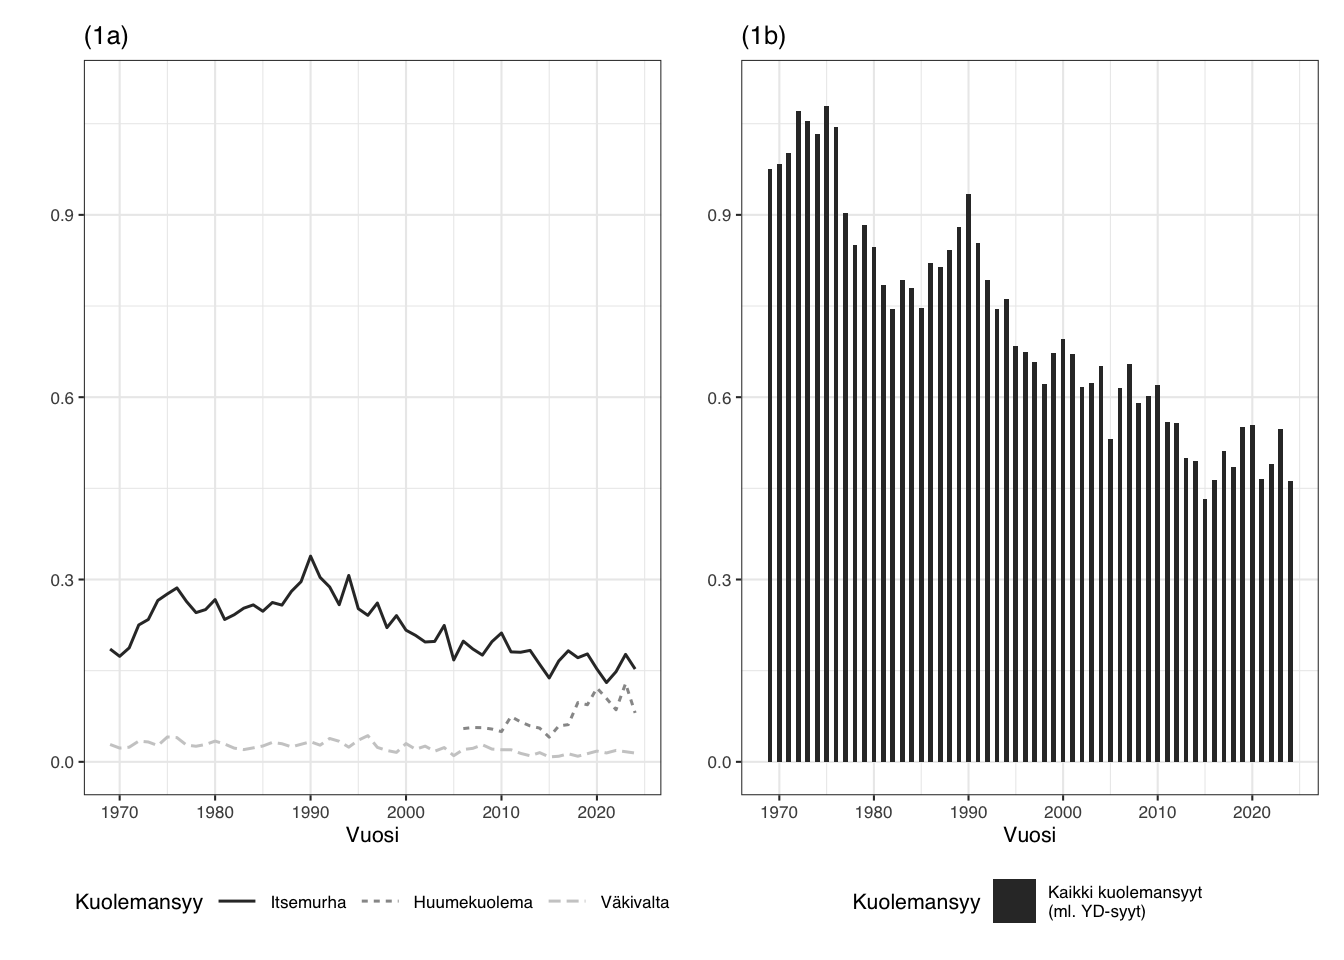
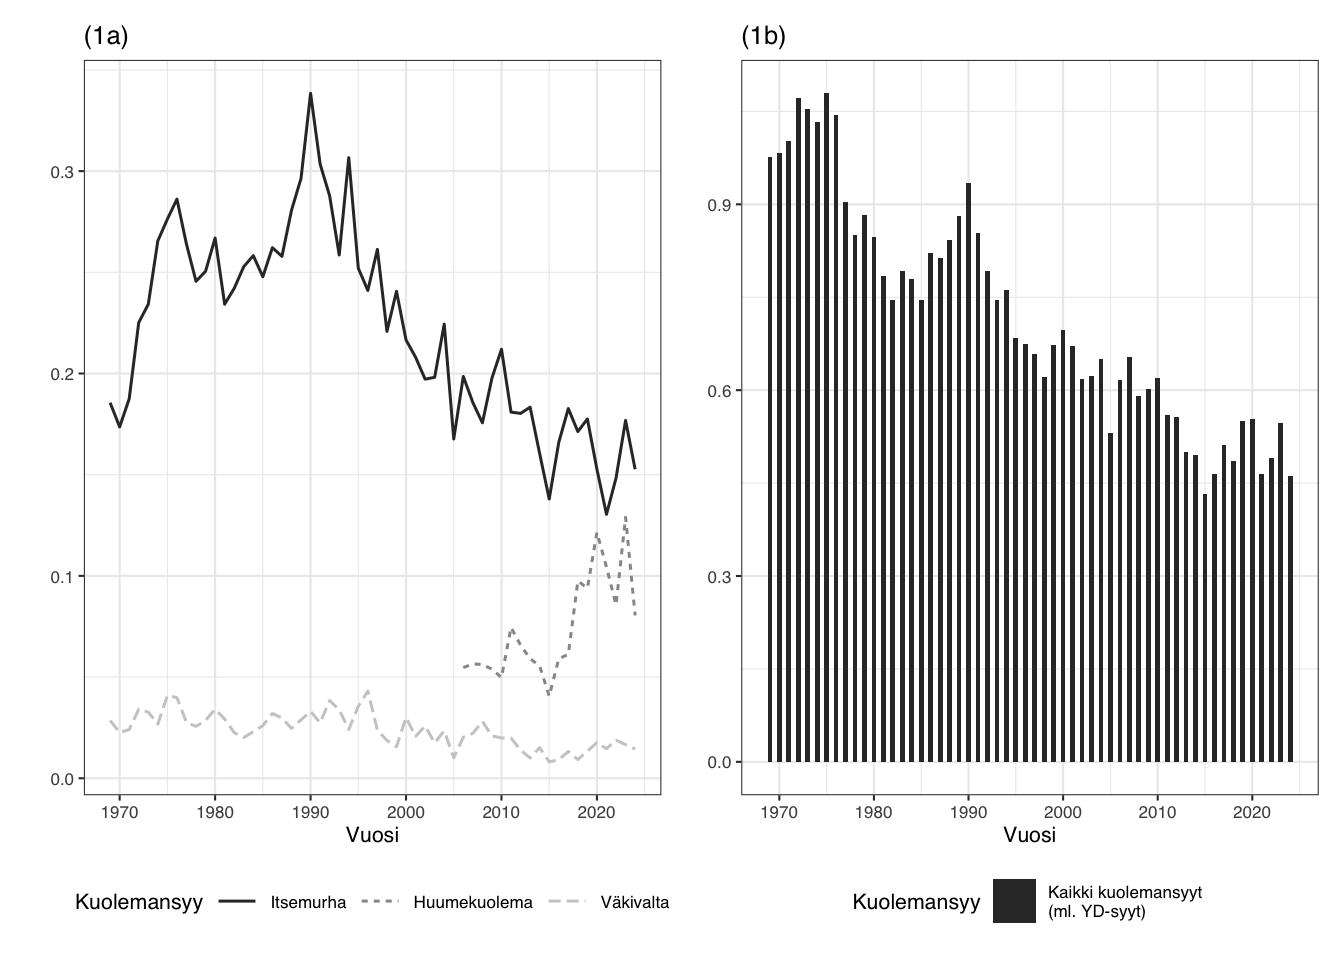
Use automatically defined y-axis limits

diff --git a/docs/datan-visualisointi.html b/docs/datan-visualisointi.html
@@ -3017,30 +3017,28 @@ ASDR = \frac{\text{25-29 vuotiaana kuolleet vuonna A}}{\text{25-29-vuotiaiden ke
 <span id="cb70-13"><a href="#cb70-13" aria-hidden="true" tabindex="-1"></a>       <span class="at">title =</span> <span class="st">"(1a)"</span>) <span class="sc">+</span></span>
 <span id="cb70-14"><a href="#cb70-14" aria-hidden="true" tabindex="-1"></a>  <span class="fu">scale_colour_grey</span>() <span class="sc">+</span></span>
 <span id="cb70-15"><a href="#cb70-15" aria-hidden="true" tabindex="-1"></a>  <span class="fu">theme_bw</span>(<span class="at">base_size =</span> <span class="dv">8</span>, <span class="at">base_family =</span> <span class="st">"sans"</span>) <span class="sc">+</span></span>
-<span id="cb70-16"><a href="#cb70-16" aria-hidden="true" tabindex="-1"></a>  <span class="fu">theme</span>(<span class="at">legend.position =</span> <span class="st">"bottom"</span>) <span class="sc">+</span></span>
-<span id="cb70-17"><a href="#cb70-17" aria-hidden="true" tabindex="-1"></a>  <span class="fu">ylim</span>(<span class="fu">c</span>(<span class="fl">0.0</span>, <span class="fl">1.1</span>))</span>
-<span id="cb70-18"><a href="#cb70-18" aria-hidden="true" tabindex="-1"></a></span>
-<span id="cb70-19"><a href="#cb70-19" aria-hidden="true" tabindex="-1"></a><span class="co"># kuvio_extra_1a</span></span>
-<span id="cb70-20"><a href="#cb70-20" aria-hidden="true" tabindex="-1"></a></span>
-<span id="cb70-21"><a href="#cb70-21" aria-hidden="true" tabindex="-1"></a>kuvio_extra_1b <span class="ot">&lt;-</span> <span class="fu">ggplot</span>(<span class="at">data =</span> kaikki_70_muut, <span class="fu">aes</span>(<span class="at">x =</span> <span class="fu">as.numeric</span>(vuosi), <span class="at">y =</span> asdr, <span class="at">group =</span> kuolemansyy)) <span class="sc">+</span></span>
-<span id="cb70-22"><a href="#cb70-22" aria-hidden="true" tabindex="-1"></a>  <span class="fu">geom_bar</span>(<span class="fu">aes</span>(<span class="at">fill=</span>kuolemansyy), <span class="at">stat =</span> <span class="st">"identity"</span>, <span class="at">width =</span> <span class="fl">0.5</span>) <span class="sc">+</span> </span>
-<span id="cb70-23"><a href="#cb70-23" aria-hidden="true" tabindex="-1"></a>  <span class="fu">labs</span>(<span class="at">x =</span> <span class="st">"Vuosi"</span>,</span>
-<span id="cb70-24"><a href="#cb70-24" aria-hidden="true" tabindex="-1"></a>       <span class="at">y =</span> <span class="st">""</span>,</span>
-<span id="cb70-25"><a href="#cb70-25" aria-hidden="true" tabindex="-1"></a>       <span class="at">fill =</span> <span class="st">"Kuolemansyy"</span>,</span>
-<span id="cb70-26"><a href="#cb70-26" aria-hidden="true" tabindex="-1"></a>       <span class="at">title =</span> <span class="st">"(1b)"</span>) <span class="sc">+</span></span>
-<span id="cb70-27"><a href="#cb70-27" aria-hidden="true" tabindex="-1"></a>  <span class="fu">scale_fill_grey</span>() <span class="sc">+</span></span>
-<span id="cb70-28"><a href="#cb70-28" aria-hidden="true" tabindex="-1"></a>  <span class="fu">theme_bw</span>(<span class="at">base_size =</span> <span class="dv">8</span>, <span class="at">base_family =</span> <span class="st">"sans"</span>) <span class="sc">+</span></span>
-<span id="cb70-29"><a href="#cb70-29" aria-hidden="true" tabindex="-1"></a>  <span class="fu">theme</span>(<span class="at">legend.position =</span> <span class="st">"bottom"</span>) <span class="sc">+</span></span>
-<span id="cb70-30"><a href="#cb70-30" aria-hidden="true" tabindex="-1"></a>  <span class="fu">ylim</span>(<span class="fu">c</span>(<span class="fl">0.0</span>, <span class="fl">1.1</span>))</span>
+<span id="cb70-16"><a href="#cb70-16" aria-hidden="true" tabindex="-1"></a>  <span class="fu">theme</span>(<span class="at">legend.position =</span> <span class="st">"bottom"</span>)</span>
+<span id="cb70-17"><a href="#cb70-17" aria-hidden="true" tabindex="-1"></a></span>
+<span id="cb70-18"><a href="#cb70-18" aria-hidden="true" tabindex="-1"></a><span class="co"># kuvio_extra_1a</span></span>
+<span id="cb70-19"><a href="#cb70-19" aria-hidden="true" tabindex="-1"></a></span>
+<span id="cb70-20"><a href="#cb70-20" aria-hidden="true" tabindex="-1"></a>kuvio_extra_1b <span class="ot">&lt;-</span> <span class="fu">ggplot</span>(<span class="at">data =</span> kaikki_70_muut, <span class="fu">aes</span>(<span class="at">x =</span> <span class="fu">as.numeric</span>(vuosi), <span class="at">y =</span> asdr, <span class="at">group =</span> kuolemansyy)) <span class="sc">+</span></span>
+<span id="cb70-21"><a href="#cb70-21" aria-hidden="true" tabindex="-1"></a>  <span class="fu">geom_bar</span>(<span class="fu">aes</span>(<span class="at">fill=</span>kuolemansyy), <span class="at">stat =</span> <span class="st">"identity"</span>, <span class="at">width =</span> <span class="fl">0.5</span>) <span class="sc">+</span> </span>
+<span id="cb70-22"><a href="#cb70-22" aria-hidden="true" tabindex="-1"></a>  <span class="fu">labs</span>(<span class="at">x =</span> <span class="st">"Vuosi"</span>,</span>
+<span id="cb70-23"><a href="#cb70-23" aria-hidden="true" tabindex="-1"></a>       <span class="at">y =</span> <span class="st">""</span>,</span>
+<span id="cb70-24"><a href="#cb70-24" aria-hidden="true" tabindex="-1"></a>       <span class="at">fill =</span> <span class="st">"Kuolemansyy"</span>,</span>
+<span id="cb70-25"><a href="#cb70-25" aria-hidden="true" tabindex="-1"></a>       <span class="at">title =</span> <span class="st">"(1b)"</span>) <span class="sc">+</span></span>
+<span id="cb70-26"><a href="#cb70-26" aria-hidden="true" tabindex="-1"></a>  <span class="fu">scale_fill_grey</span>() <span class="sc">+</span></span>
+<span id="cb70-27"><a href="#cb70-27" aria-hidden="true" tabindex="-1"></a>  <span class="fu">theme_bw</span>(<span class="at">base_size =</span> <span class="dv">8</span>, <span class="at">base_family =</span> <span class="st">"sans"</span>) <span class="sc">+</span></span>
+<span id="cb70-28"><a href="#cb70-28" aria-hidden="true" tabindex="-1"></a>  <span class="fu">theme</span>(<span class="at">legend.position =</span> <span class="st">"bottom"</span>)</span>
+<span id="cb70-29"><a href="#cb70-29" aria-hidden="true" tabindex="-1"></a></span>
+<span id="cb70-30"><a href="#cb70-30" aria-hidden="true" tabindex="-1"></a><span class="co"># kuvio_extra_1b</span></span>
 <span id="cb70-31"><a href="#cb70-31" aria-hidden="true" tabindex="-1"></a></span>
-<span id="cb70-32"><a href="#cb70-32" aria-hidden="true" tabindex="-1"></a><span class="co"># kuvio_extra_1b</span></span>
-<span id="cb70-33"><a href="#cb70-33" aria-hidden="true" tabindex="-1"></a></span>
-<span id="cb70-34"><a href="#cb70-34" aria-hidden="true" tabindex="-1"></a><span class="cf">if</span> (tuota_vektorikuviot) {</span>
-<span id="cb70-35"><a href="#cb70-35" aria-hidden="true" tabindex="-1"></a>  <span class="fu">ggsave</span>(<span class="st">"prepared_plots/extras/kuvio_extra_1a_13x8.pdf"</span>, <span class="at">plot =</span> kuvio_extra_1a, <span class="at">width =</span> <span class="dv">130</span>, <span class="at">height =</span> <span class="dv">80</span>, <span class="at">units =</span> <span class="st">"mm"</span>, <span class="at">dpi =</span> <span class="dv">300</span>, <span class="at">scale =</span> <span class="dv">1</span>)</span>
-<span id="cb70-36"><a href="#cb70-36" aria-hidden="true" tabindex="-1"></a>  <span class="fu">ggsave</span>(<span class="st">"prepared_plots/extras/kuvio_extra_1b_13x8.pdf"</span>, <span class="at">plot =</span> kuvio_extra_1b, <span class="at">width =</span> <span class="dv">130</span>, <span class="at">height =</span> <span class="dv">80</span>, <span class="at">units =</span> <span class="st">"mm"</span>, <span class="at">dpi =</span> <span class="dv">300</span>, <span class="at">scale =</span> <span class="dv">1</span>)</span>
-<span id="cb70-37"><a href="#cb70-37" aria-hidden="true" tabindex="-1"></a>}</span>
-<span id="cb70-38"><a href="#cb70-38" aria-hidden="true" tabindex="-1"></a></span>
-<span id="cb70-39"><a href="#cb70-39" aria-hidden="true" tabindex="-1"></a>kuvio_extra_1a <span class="sc">+</span> kuvio_extra_1b</span></code><button title="Copy to Clipboard" class="code-copy-button"><i class="bi"></i></button></pre></div>
+<span id="cb70-32"><a href="#cb70-32" aria-hidden="true" tabindex="-1"></a><span class="cf">if</span> (tuota_vektorikuviot) {</span>
+<span id="cb70-33"><a href="#cb70-33" aria-hidden="true" tabindex="-1"></a>  <span class="fu">ggsave</span>(<span class="st">"prepared_plots/extras/kuvio_extra_1a_13x8.pdf"</span>, <span class="at">plot =</span> kuvio_extra_1a, <span class="at">width =</span> <span class="dv">130</span>, <span class="at">height =</span> <span class="dv">80</span>, <span class="at">units =</span> <span class="st">"mm"</span>, <span class="at">dpi =</span> <span class="dv">300</span>, <span class="at">scale =</span> <span class="dv">1</span>)</span>
+<span id="cb70-34"><a href="#cb70-34" aria-hidden="true" tabindex="-1"></a>  <span class="fu">ggsave</span>(<span class="st">"prepared_plots/extras/kuvio_extra_1b_13x8.pdf"</span>, <span class="at">plot =</span> kuvio_extra_1b, <span class="at">width =</span> <span class="dv">130</span>, <span class="at">height =</span> <span class="dv">80</span>, <span class="at">units =</span> <span class="st">"mm"</span>, <span class="at">dpi =</span> <span class="dv">300</span>, <span class="at">scale =</span> <span class="dv">1</span>)</span>
+<span id="cb70-35"><a href="#cb70-35" aria-hidden="true" tabindex="-1"></a>}</span>
+<span id="cb70-36"><a href="#cb70-36" aria-hidden="true" tabindex="-1"></a></span>
+<span id="cb70-37"><a href="#cb70-37" aria-hidden="true" tabindex="-1"></a>kuvio_extra_1a <span class="sc">+</span> kuvio_extra_1b</span></code><button title="Copy to Clipboard" class="code-copy-button"><i class="bi"></i></button></pre></div>
 </details>
 <div class="cell-output-display">
 <div>
